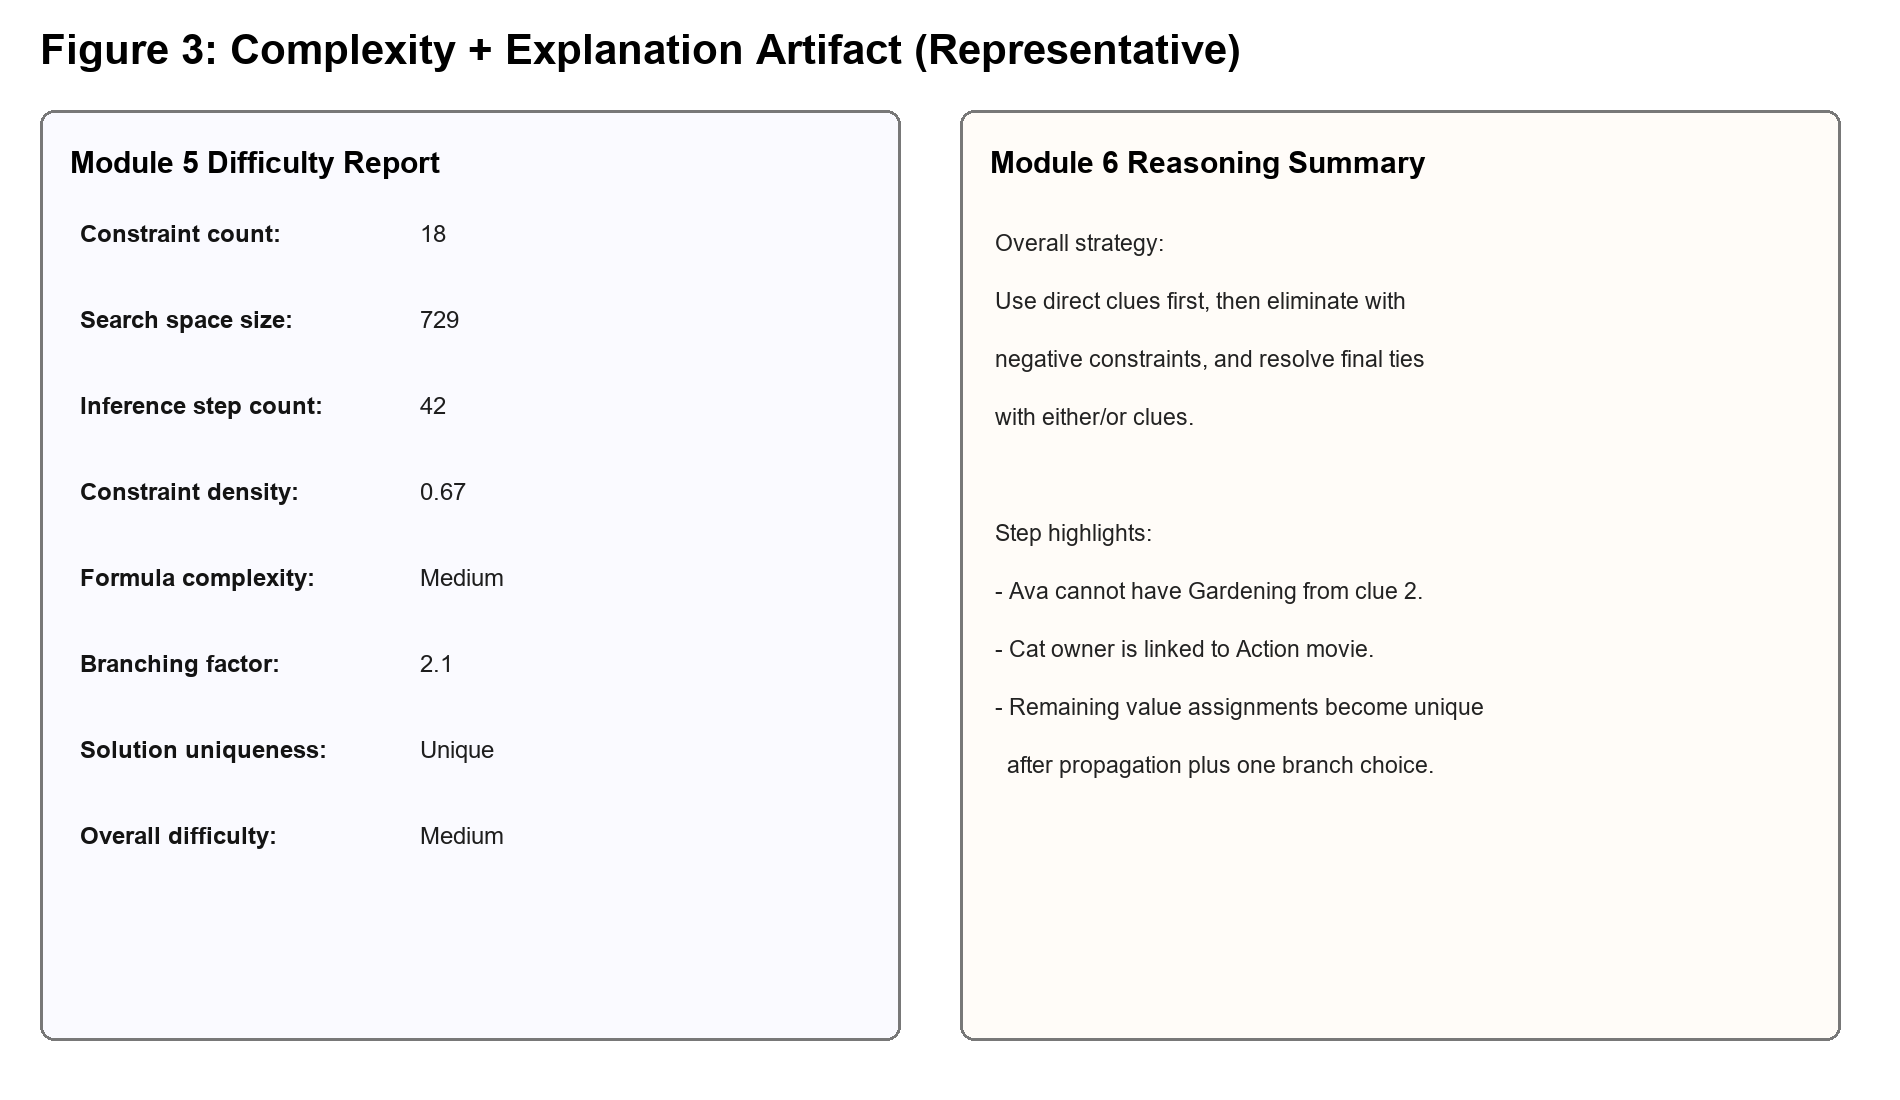
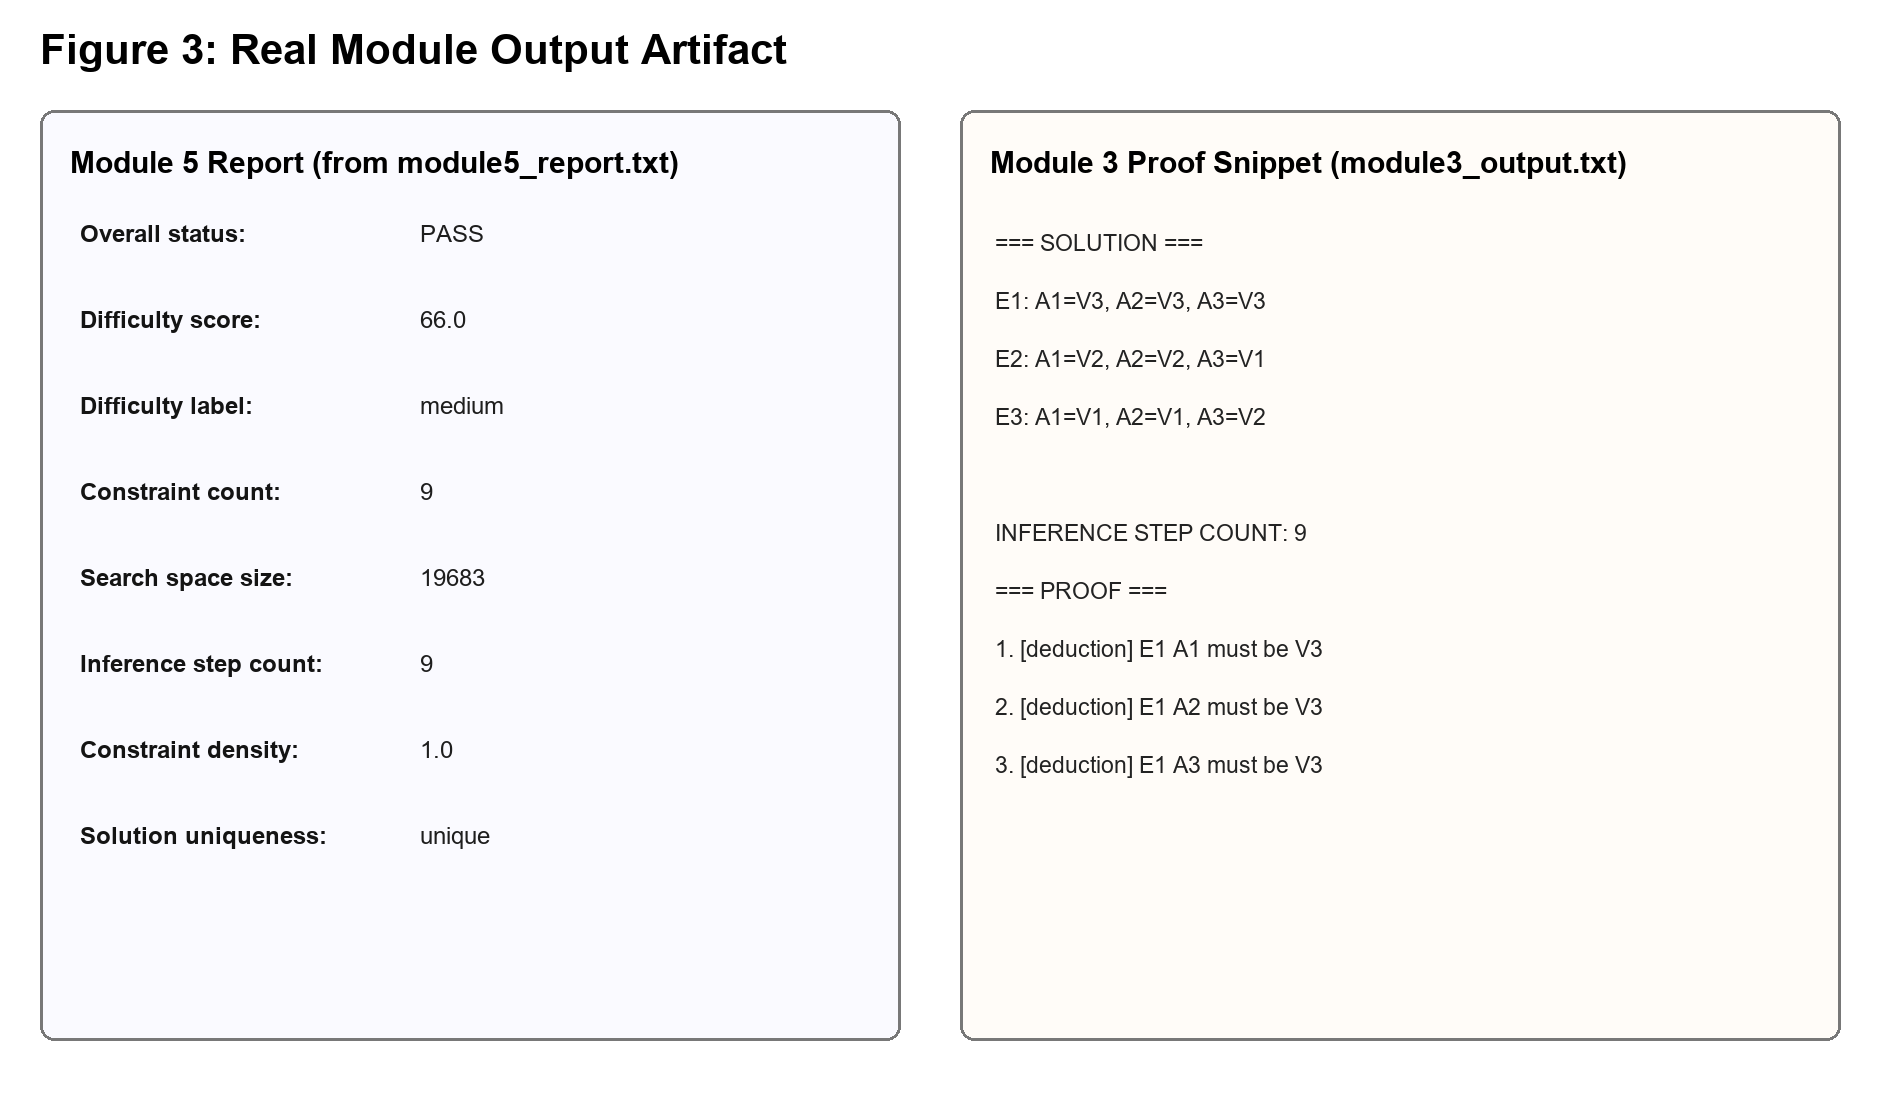
final paper draft

diff --git a/scripts/generate_paper_artifacts.py b/scripts/generate_paper_artifacts.py
@@ -1,4 +1,5 @@
 from pathlib import Path
+import json
 from PIL import Image, ImageDraw, ImageFont
 
 
@@ -95,66 +96,55 @@ def draw_table(path: Path, title: str, headers: list[str], rows: list[list[str]]
 def figure2_ui_mock(path: Path):
     img = Image.new("RGB", (1900, 1100), "white")
     d = ImageDraw.Draw(img)
-    d.text((40, 25), "Figure 2: Streamlit Gameplay Screen (Representative)", font=get_font(42, bold=True), fill="black")
+    d.text((40, 25), "Figure 2: Real Puzzle Instance Artifact (Module 1 -> Module 2)", font=get_font(42, bold=True), fill="black")
 
-    d.rounded_rectangle((40, 100, 1200, 1040), radius=16, outline=(140, 140, 140), width=3, fill=(248, 250, 255))
-    d.text((70, 130), "Logic Grid Workspace", font=get_font(30, bold=True), fill=(20, 20, 20))
+    puzzle_path = ROOT / "module1_puzzle.json"
+    kb_path = ROOT / "module2_kb.txt"
+    puzzle_text = "{}"
+    kb_text = ""
+    if puzzle_path.exists():
+        puzzle_obj = json.loads(puzzle_path.read_text(encoding="utf-8"))
+        puzzle_text = json.dumps(puzzle_obj, indent=2)
+    if kb_path.exists():
+        kb_text = kb_path.read_text(encoding="utf-8")
 
-    gx, gy = 70, 190
-    cw, ch = 170, 85
-    for r in range(0, 7):
-        d.line((gx, gy + r * ch, gx + 6 * cw, gy + r * ch), fill=(120, 120, 120), width=2)
-    for c in range(0, 7):
-        d.line((gx + c * cw, gy, gx + c * cw, gy + 6 * ch), fill=(120, 120, 120), width=2)
-    d.text((gx + 20, gy + 18), "Person", font=get_font(20, bold=True), fill="black")
-    d.text((gx + 190, gy + 18), "Pet", font=get_font(20, bold=True), fill="black")
-    d.text((gx + 360, gy + 18), "Movie", font=get_font(20, bold=True), fill="black")
-    d.text((gx + 530, gy + 18), "Hobby", font=get_font(20, bold=True), fill="black")
-    d.text((gx + 20, gy + 102), "Ava", font=get_font(20), fill="black")
-    d.text((gx + 20, gy + 187), "Ben", font=get_font(20), fill="black")
-    d.text((gx + 20, gy + 272), "Cara", font=get_font(20), fill="black")
-    d.text((gx + 210, gy + 102), "O", font=get_font(26, bold=True), fill=(0, 120, 0))
-    d.text((gx + 380, gy + 102), "X", font=get_font(26, bold=True), fill=(180, 0, 0))
-    d.text((gx + 550, gy + 187), "O", font=get_font(26, bold=True), fill=(0, 120, 0))
+    puzzle_lines = puzzle_text.splitlines()[:24]
+    kb_lines = kb_text.splitlines()[:24]
 
-    d.rounded_rectangle((1240, 100, 1840, 720), radius=16, outline=(140, 140, 140), width=3, fill=(253, 253, 253))
-    d.text((1270, 130), "Clues", font=get_font(30, bold=True), fill="black")
-    clues = [
-        "1. The person with the black hair enjoys reading.",
-        "2. Ben is not the one who likes gardening.",
-        "3. Either Ava watches mystery movies or",
-        "   she has the dog.",
-        "4. The person with the cat also prefers action.",
-    ]
+    d.rounded_rectangle((40, 100, 930, 1040), radius=16, outline=(140, 140, 140), width=3, fill=(248, 250, 255))
+    d.text((70, 130), "Left: module1_puzzle.json (actual file snippet)", font=get_font(28, bold=True), fill=(20, 20, 20))
     y = 190
-    for line in clues:
-        d.text((1270, y), line, font=get_font(22), fill=(30, 30, 30))
-        y += 58
+    for line in puzzle_lines:
+        d.text((70, y), line[:82], font=get_font(19), fill=(30, 30, 30))
+        y += 33
 
-    d.rounded_rectangle((1240, 760, 1840, 1040), radius=16, outline=(140, 140, 140), width=3, fill=(245, 252, 245))
-    d.text((1270, 795), "Progress", font=get_font(30, bold=True), fill="black")
-    d.text((1270, 855), "Correct guesses: 5", font=get_font(24), fill=(20, 90, 20))
-    d.text((1270, 905), "Remaining unknowns: 4", font=get_font(24), fill=(40, 40, 40))
-    d.text((1270, 955), "Status: In progress", font=get_font(24), fill=(40, 40, 40))
+    d.rounded_rectangle((970, 100, 1860, 1040), radius=16, outline=(140, 140, 140), width=3, fill=(253, 253, 253))
+    d.text((1000, 130), "Right: module2_kb.txt (actual file snippet)", font=get_font(28, bold=True), fill=(20, 20, 20))
+    y = 190
+    for line in kb_lines:
+        d.text((1000, y), line[:82], font=get_font(19), fill=(30, 30, 30))
+        y += 33
+
+    d.text((40, 1060), "This artifact shows a real generated puzzle and its propositional KB translation from the project files.", font=get_font(20), fill=(50, 50, 50))
     img.save(path)
 
 
 def figure3_analysis(path: Path):
     img = Image.new("RGB", (1900, 1100), "white")
     d = ImageDraw.Draw(img)
-    d.text((40, 25), "Figure 3: Complexity + Explanation Artifact (Representative)", font=get_font(42, bold=True), fill="black")
+    d.text((40, 25), "Figure 3: Real Module Output Artifact", font=get_font(42, bold=True), fill="black")
 
     d.rounded_rectangle((40, 110, 900, 1040), radius=14, outline=(120, 120, 120), width=3, fill=(250, 250, 255))
-    d.text((70, 145), "Module 5 Difficulty Report", font=get_font(30, bold=True), fill="black")
+    d.text((70, 145), "Module 5 Report (from module5_report.txt)", font=get_font(30, bold=True), fill="black")
     metrics = [
-        ("Constraint count", "18"),
-        ("Search space size", "729"),
-        ("Inference step count", "42"),
-        ("Constraint density", "0.67"),
-        ("Formula complexity", "Medium"),
-        ("Branching factor", "2.1"),
-        ("Solution uniqueness", "Unique"),
-        ("Overall difficulty", "Medium"),
+        ("Overall status", "PASS"),
+        ("Difficulty score", "66.0"),
+        ("Difficulty label", "medium"),
+        ("Constraint count", "9"),
+        ("Search space size", "19683"),
+        ("Inference step count", "9"),
+        ("Constraint density", "1.0"),
+        ("Solution uniqueness", "unique"),
     ]
     y = 220
     for k, v in metrics:
@@ -163,18 +153,18 @@ def figure3_analysis(path: Path):
         y += 86
 
     d.rounded_rectangle((960, 110, 1840, 1040), radius=14, outline=(120, 120, 120), width=3, fill=(255, 252, 248))
-    d.text((990, 145), "Module 6 Reasoning Summary", font=get_font(30, bold=True), fill="black")
+    d.text((990, 145), "Module 3 Proof Snippet (module3_output.txt)", font=get_font(30, bold=True), fill="black")
     explanation = [
-        "Overall strategy:",
-        "Use direct clues first, then eliminate with",
-        "negative constraints, and resolve final ties",
-        "with either/or clues.",
+        "=== SOLUTION ===",
+        "E1: A1=V3, A2=V3, A3=V3",
+        "E2: A1=V2, A2=V2, A3=V1",
+        "E3: A1=V1, A2=V1, A3=V2",
         "",
-        "Step highlights:",
-        "- Ava cannot have Gardening from clue 2.",
-        "- Cat owner is linked to Action movie.",
-        "- Remaining value assignments become unique",
-        "  after propagation plus one branch choice.",
+        "INFERENCE STEP COUNT: 9",
+        "=== PROOF ===",
+        "1. [deduction] E1 A1 must be V3",
+        "2. [deduction] E1 A2 must be V3",
+        "3. [deduction] E1 A3 must be V3",
     ]
     y = 230
     for line in explanation:
@@ -195,11 +185,11 @@ def main():
         "Table 1: Evaluation Dimensions and Evidence",
         ["Objective", "Artifact/Metric", "Evidence Source"],
         [
-            ["Correctness", "Unit + integration tests", "pytest test suite"],
-            ["Uniqueness", "Bounded solution counting", "Module 1 + Module 3 checks"],
-            ["Verification", "Per-constraint pass/fail", "Module 4 report"],
-            ["Difficulty quality", "Metric completeness/sanity", "Module 5 report"],
-            ["User behavior", "Hint/check/reveal loop", "Streamlit interactive test"],
+            ["Correctness", "126 passed, 0 failed", "whole_system_system_report.md"],
+            ["Coverage", "8 unit + 5 integration files", "unit_tests/ and integration_tests/"],
+            ["Uniqueness", "Bounded solution counting", "Module 1 + Module 3 implementation"],
+            ["Difficulty quality", "9 metrics + label", "module5_report.txt"],
+            ["User behavior", "Hint/check/reveal workflow", "streamlit_app.py UI behavior"],
         ],
         [420, 470, 520],
     )
@@ -209,12 +199,12 @@ def main():
         "Table 2: Module-Level Outcomes and Evidence",
         ["Module", "Primary Output", "Evidence"],
         [
-            ["Module 1", "Puzzle JSON + unique solution", "Generator and uniqueness checks"],
-            ["Module 2", "KB text formulas", "Deterministic conversion tests"],
-            ["Module 3", "Solution + proof trace", "Solver tests and trace checks"],
-            ["Module 4", "Verification report", "Constraint + entailment validation"],
-            ["Module 5", "Difficulty metrics", "Metric and label checks"],
-            ["Module 6", "Readable explanation", "Phase grouping/output tests"],
+            ["Module 1", "Puzzle JSON", "module1_puzzle.json"],
+            ["Module 2", "KB text formulas", "module2_kb.txt"],
+            ["Module 3", "Solution + proof trace", "module3_output.txt"],
+            ["Module 4", "Verification status", "Integrated in full-system tests"],
+            ["Module 5", "Difficulty metrics", "module5_report.txt"],
+            ["Module 6", "Readable explanation", "test_module1_to_module6.py"],
         ],
         [280, 580, 550],
     )
